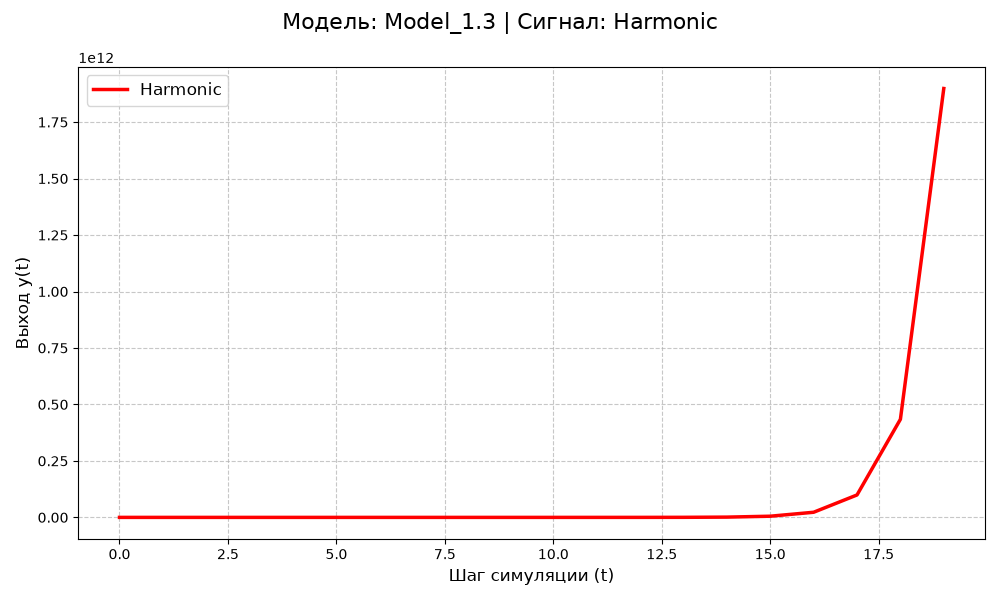
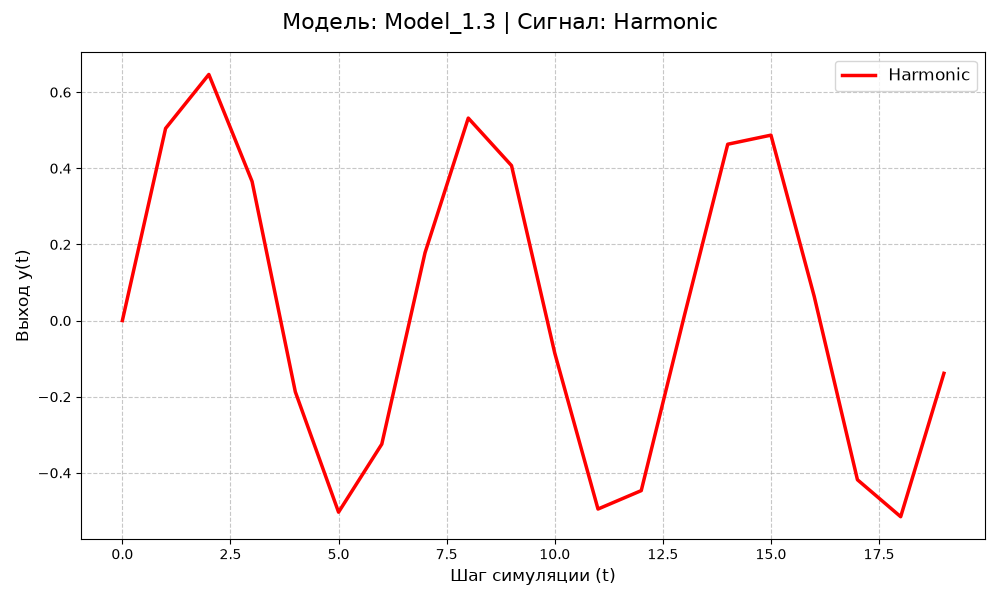
[task_01] Шульжик ЛР1

diff --git a/trunk/ii03027/task_01/plot.py b/trunk/ii03027/task_01/plot.py
@@ -14,9 +14,26 @@ except FileNotFoundError:
     print("Ошибка: Файл simulation_results.csv не найден.")
     exit()
 
+def update_table(event=None):
+    selected_signal = combo_signal.get()
+    
+    for i in tree.get_children():
+        tree.delete(i)
+    
+    if selected_signal == "All signals":
+        filtered_df = df
+    else:
+        filtered_df = df[df['Signal'] == selected_signal]
+    
+    for index, (_, row) in enumerate(filtered_df[['Model', 'Signal', 'Step', 'u', 'y']].iterrows()):
+        tag = 'evenrow' if index % 2 == 0 else 'oddrow'
+        tree.insert('', 'end', values=list(row), tags=(tag,))
+    
+    root.title(f"Результаты симуляции | Показаны: {selected_signal}")
+
 def show_plot():
-    selected_signal = combo_signal.get() 
-    model_name = df['Model'].iloc[0]    
+    selected_signal = combo_signal.get()
+    model_name = df['Model'].iloc[0]
     
     if selected_signal == "Все сигналы":
         plot_data = df
@@ -43,18 +60,20 @@ def show_plot():
     plt.show()
 
 root = tk.Tk()
-root.title("Результаты симуляции (Вариант 27)")
+root.title("Результаты симуляции")
 root.geometry("1000x700")
-root.configure(bg="#f0f0f0") 
+root.configure(bg="#f0f0f0")
 
 control_frame = tk.Frame(root, bg="#f0f0f0", pady=10)
 control_frame.pack(fill='x', padx=10)
 
-tk.Label(control_frame, text="Выберите сигнал для графика:", bg="#f0f0f0", font=("Arial", 11)).pack(side='left', padx=(0, 10))
+tk.Label(control_frame, text="Выберите сигнал:", bg="#f0f0f0", font=("Arial", 11)).pack(side='left', padx=(0, 10))
 
 combo_signal = ttk.Combobox(control_frame, values=["Все сигналы", "Step", "Impulse", "Harmonic"], state="readonly", font=("Arial", 11))
-combo_signal.current(0) 
+combo_signal.current(0)
 combo_signal.pack(side='left', padx=(0, 20))
+
+combo_signal.bind("<<ComboboxSelected>>", update_table)
 
 btn_show = tk.Button(control_frame, text="Показать график", command=show_plot, font=("Arial", 11, "bold"), bg="#4CAF50", fg="white", relief="flat", padx=10)
 btn_show.pack(side='left')
@@ -66,9 +85,9 @@ scrollbar = ttk.Scrollbar(frame)
 scrollbar.pack(side='right', fill='y')
 
 style = ttk.Style()
-style.theme_use("clam") 
+style.theme_use("clam")
 style.configure("Treeview.Heading", font=('Arial', 11, 'bold'), background="#4a4a4a", foreground="white")
-style.map("Treeview.Heading", background=[('active', '#3a3a3a')]) 
+style.map("Treeview.Heading", background=[('active', '#3a3a3a')])
 style.configure("Treeview", font=('Arial', 10), rowheight=25)
 
 tree = ttk.Treeview(frame, yscrollcommand=scrollbar.set, style="Treeview")
@@ -83,12 +102,10 @@ for col in columns:
     tree.heading(col, text=col)
     tree.column(col, width=120, anchor='center')
 
-for index, (_, row) in enumerate(df[columns].iterrows()):
-    tag = 'evenrow' if index % 2 == 0 else 'oddrow'
-    tree.insert('', 'end', values=list(row), tags=(tag,))
-
 tree.tag_configure('evenrow', background='#ffffff')
 tree.tag_configure('oddrow', background='#f9f9f9')
 
-print("Окно с таблицей открыто. Выберите сигнал и нажмите кнопку.")
+update_table()
+
+print("Окно открыто. Выберите сигнал в списке, чтобы обновить таблицу.")
 root.mainloop()

diff --git a/trunk/ii03027/task_01/src/main.cpp b/trunk/ii03027/task_01/src/main.cpp
@@ -5,6 +5,7 @@
 #include <cmath>
 #include <iomanip>
 #include <limits>
+
 #include "Model.h"
 #include "Model 1.3.h"
 #include "Model 2.10.h"
@@ -59,17 +60,10 @@ std::string getSignalName(int type) {
 void runSimulation(const std::shared_ptr<Model>& model, int steps, int signalType, const std::string& modelName, std::ofstream& csvFile) {
     model->reset();
     std::string sigName = getSignalName(signalType);
-    
-    std::cout << "\n--- Модель: " << modelName << " | Сигнал: " << sigName << " ---" << std::endl;
-    std::cout << std::setw(5) << "t" << std::setw(15) << "u(t)" << std::setw(15) << "y(t)" << std::endl;
 
     for (int t = 0; t < steps; ++t) {
         double u = generateSignal(signalType, t);
         double y = model->step(u);
-        
-        std::cout << std::setw(5) << t 
-                  << std::setw(15) << std::fixed << std::setprecision(4) << u 
-                  << std::setw(15) << std::fixed << std::setprecision(4) << y << std::endl;
                   
         csvFile << modelName << "," << sigName << "," << t << "," << u << "," << y << "\n";
     }
